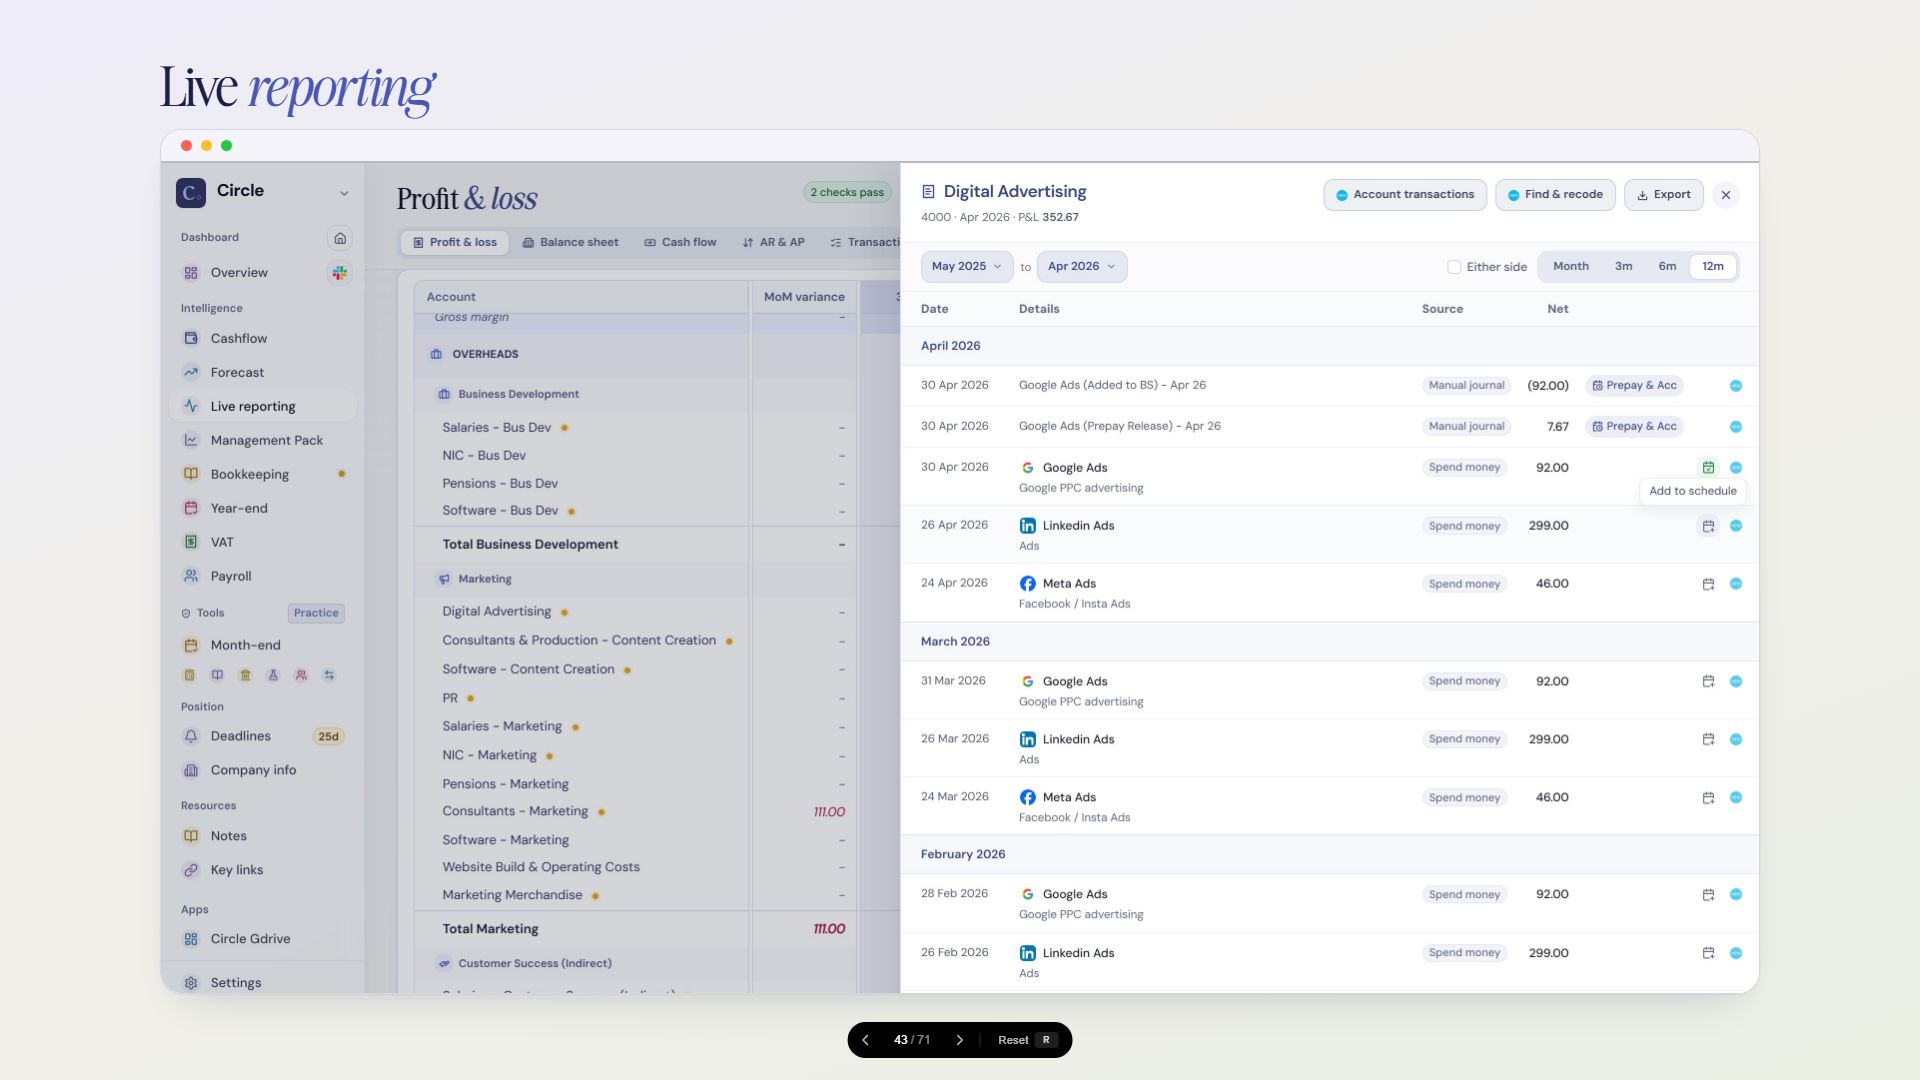
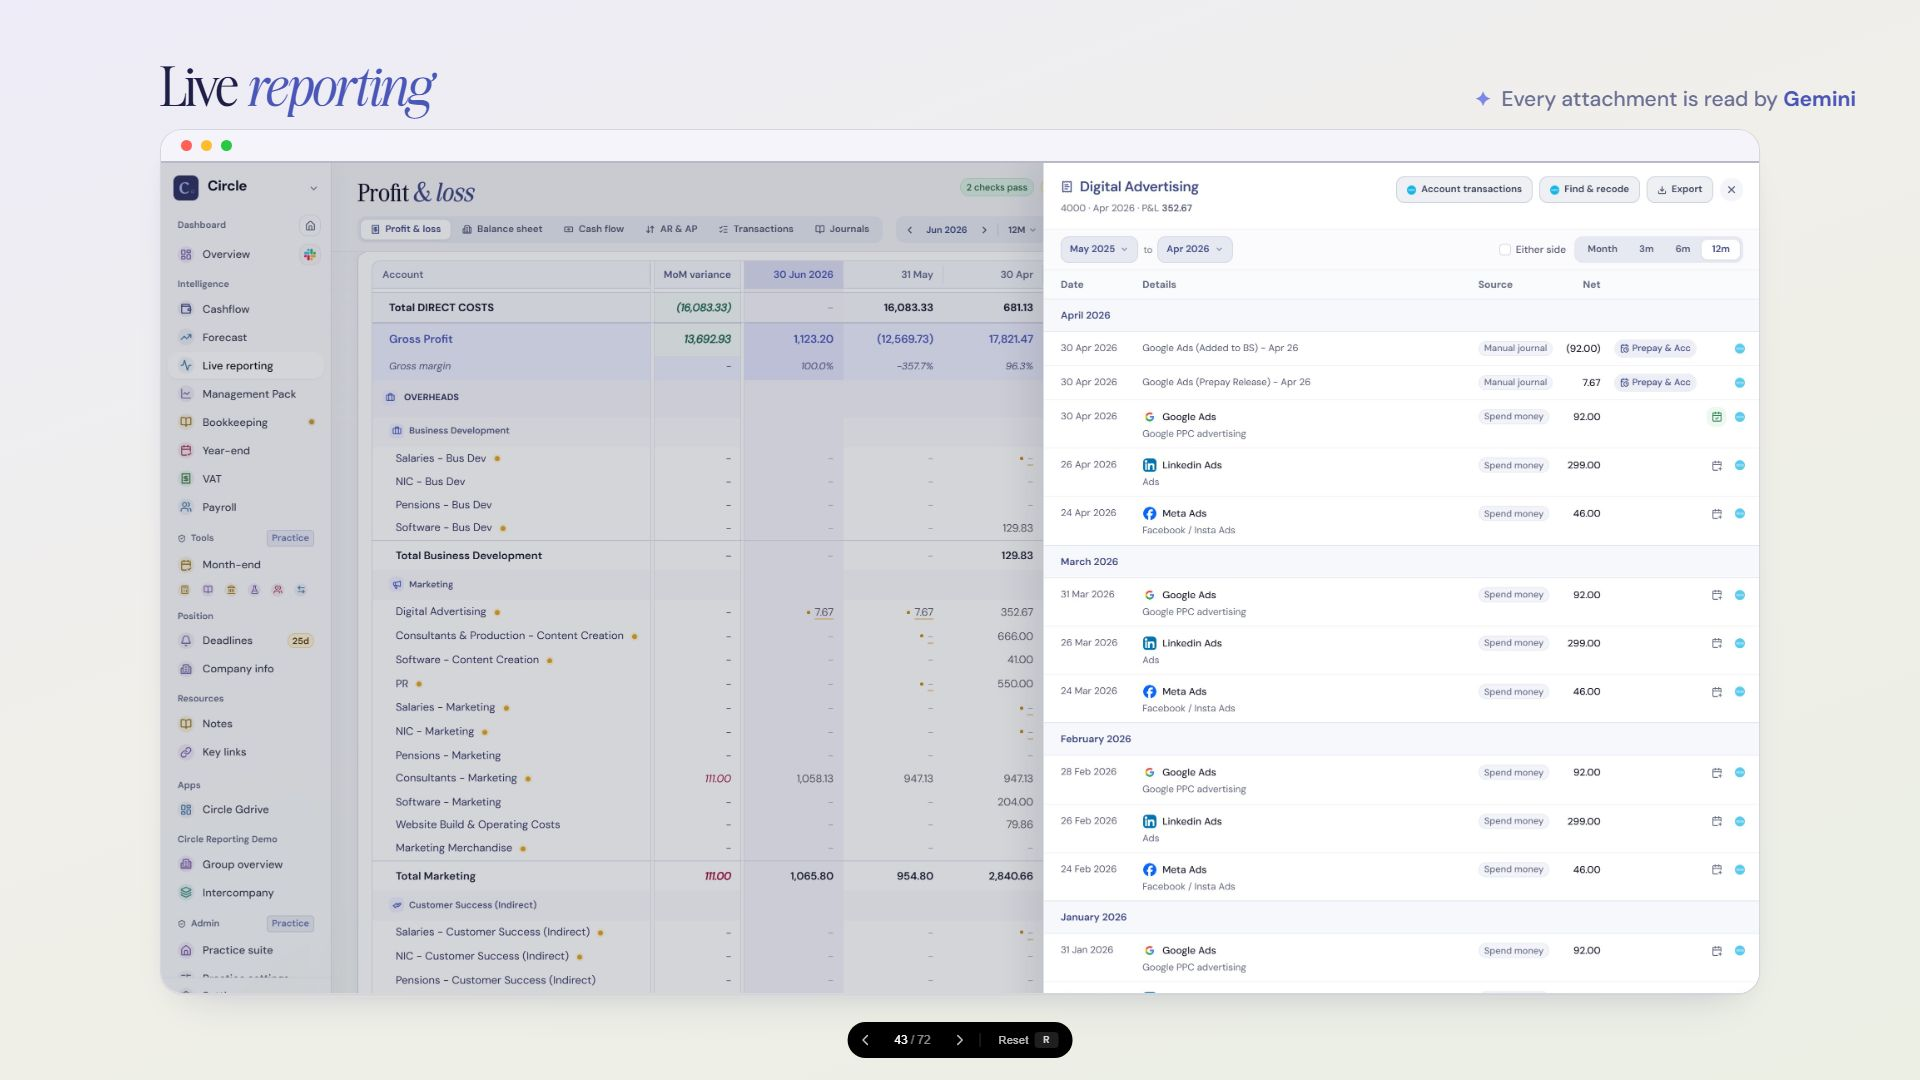
Auto Bank Wreck: live reporting as two screens with the schedule menu, lenses on the bank and supplier marks, the model named where GenAI does the work

diff --git a/presentations/auto-bank-wreck/index.html b/presentations/auto-bank-wreck/index.html
@@ -2680,9 +2680,11 @@ deck-stage { background: #0a0a0a; }
     <div class="frame" style="--pad-y: 56px;">
       <div class="topbar"><p class="section-tag">What works <em>· 02 build</em></p><span class="page-chip"></span></div>
 
-      <div class="feat-head"><h2 class="display">Daily <em>cashflow</em></h2></div>
+      <div class="feat-head"><h2 class="display">Daily <em>cashflow</em></h2><p class="ai-note"><b>Jev</b> puts each cash item in its lane</p></div>
       <div class="fill center-y">
         <div class="pair">
+          <i class="lens" aria-hidden="true" style="left: -45px; top: 92px; background-image: url('images/slides/41a-app-showcase/cashflow-oct06.jpg'); background-position: -334px -143px;"></i>
+          <i class="lens" aria-hidden="true" style="left: -45px; top: 635px; background-image: url('images/slides/41a-app-showcase/cashflow-oct06.jpg'); background-position: -340px -958px;"></i>
           <figure class="shot window">
             <img src="images/slides/41a-app-showcase/cashflow-oct06.jpg" alt="Circle cash flow: every bank, a 12-month balance line and spend by supplier with real logos">
             <figcaption></figcaption>
@@ -2720,7 +2722,7 @@ deck-stage { background: #0a0a0a; }
     <div class="frame" style="--pad-y: 56px;">
       <div class="topbar"><p class="section-tag">What works <em>· 02 build</em></p><span class="page-chip"></span></div>
 
-      <div class="feat-head"><h2 class="display">Forecast <em>P&amp;L</em></h2></div>
+      <div class="feat-head"><h2 class="display">Forecast <em>P&amp;L</em></h2><p class="ai-note"><b>Claude Sonnet</b> groups costs into what-if buckets</p></div>
       <div class="fill center-y">
         <div class="shot-wrap">
           <figure class="shot window">
@@ -2774,7 +2776,7 @@ deck-stage { background: #0a0a0a; }
     <div class="frame" style="--pad-y: 56px;">
       <div class="topbar"><p class="section-tag">What works <em>· 02 build</em></p><span class="page-chip"></span></div>
 
-      <div class="feat-head"><h2 class="display">Set<em>list</em></h2></div>
+      <div class="feat-head"><h2 class="display">Set<em>list</em></h2><p class="ai-note"><b>Jev</b> reads which client a task names</p></div>
       <div class="fill center-y">
         <div class="shot-wrap">
         <figure class="shot window"><img src="images/slides/41a-app-showcase/setlist-oct06.jpg" alt="Setlist: inbox, projects, overdue work, the day planner and filing deadlines in one place"><figcaption></figcaption></figure>
@@ -2804,7 +2806,7 @@ deck-stage { background: #0a0a0a; }
     <div class="frame" style="--pad-y: 56px;">
       <div class="topbar"><p class="section-tag">What works <em>· 02 build</em></p><span class="page-chip"></span></div>
 
-      <div class="feat-head"><h2 class="display">Management <em>accounts</em></h2></div>
+      <div class="feat-head"><h2 class="display">Management <em>accounts</em></h2><p class="ai-note"><b>Claude Sonnet</b> proposes the P&amp;L groups</p></div>
       <div class="fill center-y">
         <div class="pair">
           <figure class="shot window">
@@ -2844,10 +2846,26 @@ deck-stage { background: #0a0a0a; }
     <div class="frame" style="--pad-y: 56px;">
       <div class="topbar"><p class="section-tag">What works <em>· 02 build</em></p><span class="page-chip"></span></div>
 
-      <div class="feat-head"><h2 class="display">Live <em>reporting</em></h2></div>
+      <div class="feat-head"><h2 class="display">Live <em>reporting</em></h2><p class="ai-note">Every attachment is read by <b>Gemini</b></p></div>
       <div class="fill center-y">
         <div class="shot-wrap">
-          <figure class="shot window"><img src="images/slides/41a-app-showcase/live-drill-oct06.jpg" alt="Circle live profit and loss with one figure opened: its transactions with supplier logos, each one a click from the prepayments and accruals schedule"><figcaption></figcaption></figure>
+          <figure class="shot window"><img src="images/slides/41a-app-showcase/live-drill-wide-oct06.jpg" alt="Circle live profit and loss with one figure opened: twelve months of its transactions, each with its supplier logo"><figcaption></figcaption></figure>
+        </div>
+      </div>
+
+      <div class="bottombar"></div>
+    </div>
+  </section>
+
+  <section class="slide" data-label="Live reporting · schedule">
+    <div class="frame" style="--pad-y: 56px;">
+      <div class="topbar"><p class="section-tag">What works <em>· 02 build</em></p><span class="page-chip"></span></div>
+
+      <div class="feat-head"><h2 class="display">Live <em>reporting</em></h2><p class="ai-note">Every attachment is read by <b>Gemini</b></p></div>
+      <div class="fill center-y">
+        <div class="shot-wrap">
+          <i class="lens" aria-hidden="true" style="left: 430px; top: 262px; width: 340px; height: 340px; background-size: 2214px auto; background-image: url('images/slides/41a-app-showcase/live-drill-menu-oct06.jpg'); background-position: -1854px -400px;"></i>
+          <figure class="shot window"><img src="images/slides/41a-app-showcase/live-drill-menu-oct06.jpg" alt="The same transactions with one opened to its schedule menu: add prepayment, add accrual, or attach the invoice to an accrual already in the schedule"><figcaption></figcaption></figure>
         </div>
       </div>
 
@@ -2859,7 +2877,7 @@ deck-stage { background: #0a0a0a; }
     <div class="frame" style="--pad-y: 56px;">
       <div class="topbar"><p class="section-tag">What works <em>· 02 build</em></p><span class="page-chip"></span></div>
 
-      <div class="feat-head"><h2 class="display">Book<em>keeping</em></h2></div>
+      <div class="feat-head"><h2 class="display">Book<em>keeping</em></h2><p class="ai-note"><b>Claude Haiku</b> names each bank line <i>·</i> <b>Jev</b> checks its category</p></div>
       <div class="fill center-y">
         <div class="pair">
           <figure class="shot window">
@@ -2901,7 +2919,7 @@ deck-stage { background: #0a0a0a; }
     <div class="frame" style="--pad-y: 56px;">
       <div class="topbar"><p class="section-tag">What works <em>· 02 build</em></p><span class="page-chip"></span></div>
 
-      <div class="feat-head"><h2 class="display">Month <em>end</em></h2></div>
+      <div class="feat-head"><h2 class="display">Month <em>end</em></h2><p class="ai-note"><b>Claude Sonnet</b> looks for missing prepayments <i>·</i> <b>Jev</b> ranks each finding</p></div>
       <div class="fill center-y">
         <div class="mosaic">
           <figure class="shot window"><img src="images/slides/41a-app-showcase/accruals-oct06.jpg" alt="Circle prepayments and accruals schedule with supplier logos, synced to Xero"><figcaption>Prepayments &amp; accruals</figcaption></figure>
@@ -2921,7 +2939,7 @@ deck-stage { background: #0a0a0a; }
     <div class="frame" style="--pad-y: 56px;">
       <div class="topbar"><p class="section-tag">What works <em>· 02 build</em></p><span class="page-chip"></span></div>
 
-      <div class="feat-head"><h2 class="display">Payroll <em>review</em></h2></div>
+      <div class="feat-head"><h2 class="display">Payroll <em>review</em></h2><p class="ai-note"><b>Claude Sonnet</b> drafts each variance note</p></div>
       <div class="fill center-y">
         <div class="pair trio">
           <figure class="shot window"><img src="images/slides/41a-app-showcase/payroll-review-tall-oct06.jpg" alt="Circle payroll review: this month against last, line by line"><figcaption></figcaption></figure>
@@ -2959,7 +2977,7 @@ deck-stage { background: #0a0a0a; }
     <div class="frame" style="--pad-y: 56px;">
       <div class="topbar"><p class="section-tag">What works <em>· 02 build</em></p><span class="page-chip"></span></div>
 
-      <div class="feat-head"><h2 class="display">VAT <em>review</em></h2></div>
+      <div class="feat-head"><h2 class="display">VAT <em>review</em></h2><p class="ai-note"><b>Claude Haiku</b> flags miscoded lines <i>·</i> <b>Jev</b> gives a second opinion</p></div>
       <div class="fill center-y">
         <div class="pair">
           <figure class="shot window">
@@ -2993,7 +3011,7 @@ deck-stage { background: #0a0a0a; }
     <div class="frame" style="--pad-y: 56px;">
       <div class="topbar"><p class="section-tag">What works <em>· 02 build</em></p><span class="page-chip"></span></div>
 
-      <div class="feat-head"><h2 class="display">Year-end <em>working papers</em></h2></div>
+      <div class="feat-head"><h2 class="display">Year-end <em>working papers</em></h2><p class="ai-note"><b>Jev</b> matches prior-year lines to accounts</p></div>
       <div class="fill center-y">
         <div class="stack">
           <figure class="shot window"><img src="images/slides/41a-app-showcase/ye-hub-wide-oct06.jpg" alt="Working papers: P&amp;L review, balance sheet, receivables, payables, bank recs, fixed assets, corporation tax and disclosure notes, each with its progress"><figcaption></figcaption></figure>
@@ -3032,7 +3050,7 @@ deck-stage { background: #0a0a0a; }
     <div class="frame" style="--pad-y: 56px;">
       <div class="topbar"><p class="section-tag">What works <em>· 02 build</em></p><span class="page-chip"></span></div>
 
-      <div class="feat-head"><h2 class="display">Groups &amp; <em>intercompany</em></h2></div>
+      <div class="feat-head"><h2 class="display">Groups &amp; <em>intercompany</em></h2><p class="ai-note"><b>Jev</b> picks each intercompany counterparty</p></div>
       <div class="fill center-y">
         <div class="tri3">
           <figure class="shot window"><img src="images/slides/41a-app-showcase/ic-matrix.jpg" alt="Intercompany matrix for an eight-company group: each pair balanced or with its difference. Names blurred, figures changed"><figcaption></figcaption></figure>
@@ -3886,7 +3904,8 @@ deck-stage { background: #0a0a0a; }
   {"say":["Task management, built in: every project, the day planned, and the filing deadlines sitting alongside the work."]},
   {"say":["And the AI inside it. AI savvy, not AI native: the app is deterministic at its core, and AI is used where it earns its place. Every model, what it does, what it reads, and what it costs: about six pounds this month."]},
   {"say":["Management accounts hosted in the app, with notifications when a pack is ready and when it has been read."]},
-  {"say":["Live reporting: the P&L straight from Xero. Click any figure and it opens to its transactions, supplier by supplier. And from right there you can add one to the prepayments and accruals schedule, on the fly."]},
+  {"say":["Live reporting: the P&L straight from Xero. Click any figure and it opens to its transactions, supplier by supplier, twelve months at a time."]},
+  {"say":["And from right there, on any line: add a prepayment, add an accrual, or attach the invoice to an accrual already in the schedule. On the fly. Behind it, every attachment in Xero gets read by GenAI to find the period it covers."]},
   {"say":["Bookkeeping workflow and comms: what is outstanding, who is waiting on whom, and the messages to the client in one place."]},
   {"say":["Month end. Prepayments and accruals on the left, synced to Xero. And the other month-end processes run the same way: payroll reallocations, direct costs, the corporation tax accrual, each one a schedule that posts its own journal."]},
   {"say":["Payroll. The review on the left: this month against last, every variance explained. The journal it posts in the middle, balanced. And the client approves it in Slack."]},
@@ -4883,6 +4902,19 @@ p.perm-sub { font-size: 20px; } .perm-row .ck { font-size: 20px; } .perm-actions
 .section-tag { visibility: hidden; }
 .feat-head ~ .fill .tri3.fit .shot img { height: auto; object-fit: contain; }
 .slide .tri3 .slack-inset.side { position: static; right: auto; bottom: auto; width: auto; zoom: 0.8; margin: 0; box-shadow: 0 24px 50px -24px rgba(15,16,48,0.4); }
+/* ── Round six (06/10): the model named beside the title where GenAI does
+      the work, and lenses on the marks worth a second look. ── */
+.feat-head:not(.has-sub) { display: flex; align-items: baseline; justify-content: space-between; gap: 32px; width: calc(100% + 96px); }
+.ai-note { margin: 0; font-family: var(--font-sans); font-size: 21px; font-weight: 500; color: var(--ink-300); white-space: nowrap; }
+.ai-note::before { content: '✦'; margin-right: 10px; color: var(--periwinkle-500); }
+.ai-note b { font-weight: 700; color: var(--periwinkle-700); }
+.ai-note i { font-style: normal; margin: 0 6px; opacity: 0.6; }
+.pair { position: relative; }
+.lens {
+  position: absolute; z-index: 3; width: 230px; height: 230px; border-radius: 50%;
+  background-color: #fff; background-repeat: no-repeat; background-size: 1956px auto;
+  border: 4px solid #fff; box-shadow: 0 0 0 1px rgba(30,30,70,0.35), 0 18px 40px -14px rgba(15,16,48,0.5);
+}
 /* ══ Two looks, one deck ═══════════════════════════════════════════
    <html data-screen="standard"> is everything above: laptop, good monitor.
    <html data-screen="venue"> is the block below: a big, bright LCD in a lit
